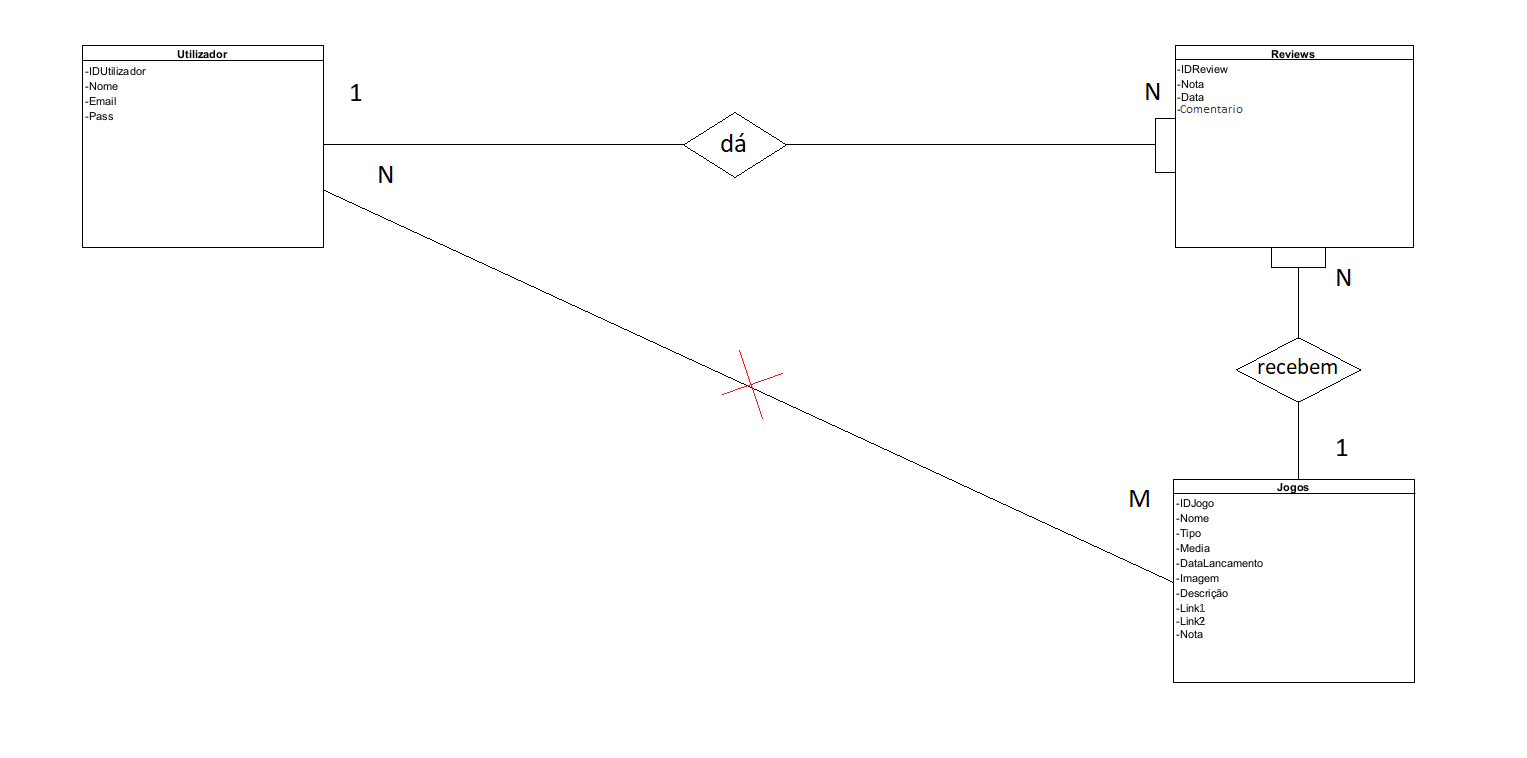
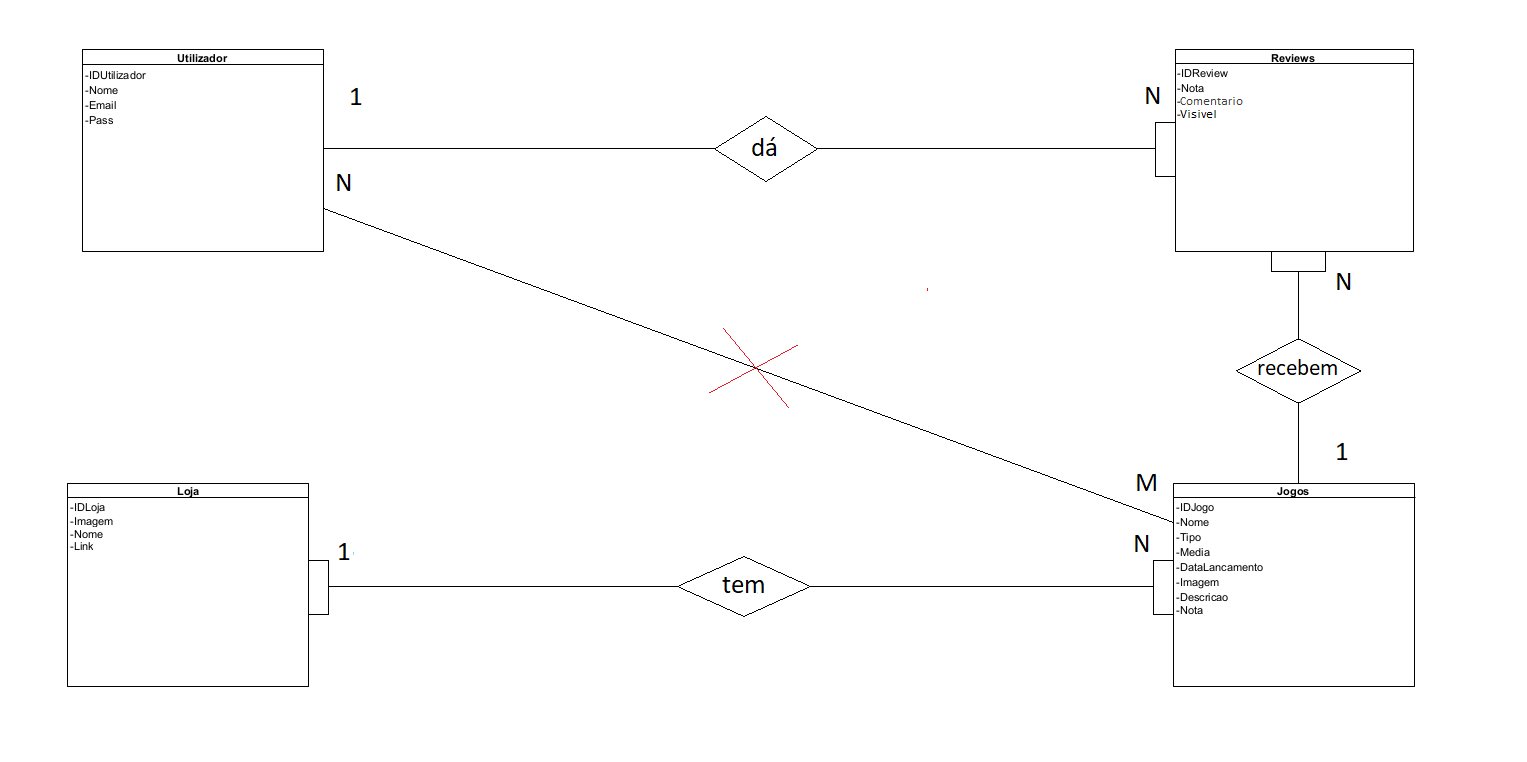
Alteração na base de dados e criação da classe loja

diff --git a/TrabPrático/Data/ApplicationDbContext.cs b/TrabPrático/Data/ApplicationDbContext.cs
@@ -16,22 +16,20 @@ namespace TrabPrático.Data
         {
             base.OnModelCreating(modelBuilder);
             modelBuilder.Entity<Jogos>().HasData(
-           new Jogos { IdJogo = 1, Nome = "FIFA 21", Tipo = "Desporto, Simulação", Nota = 74 , DataLancamento= new DateTime(2020, 10, 9) , Imagem = "FIFA21.jpg", Descricao = "FIFA 21 é um videojogo de simulação de futebol desenvolvido e publicado pela Electronic Arts, tendo como estrela da capa o jogador Kylian Mbappé." +
+           new Jogos { IdJogo = 1, Nome = "FIFA 21", Tipo = "Desporto, Simulação", CategoriaIdade = "3+", Nota = 74 , DataLancamento= new DateTime(2020, 10, 9) , Imagem = "FIFA21.jpg", Descricao = "FIFA 21 é um videojogo de simulação de futebol desenvolvido e publicado pela Electronic Arts, tendo como estrela da capa o jogador Kylian Mbappé." +
            "O jogo foi anunciado em 19 de junho de 2020, sendo, no mesmo ano, oficialmente publicado no dia 9 de outubro. Lançado de acordo com a temporada 2020-2021, o jogo apresenta como grandes novidades as novas mecânicas de simulação no modo carreira, junto com um editor de estádios no modo Ultimate Team." +
-           "FIFA 21 foi o primeiro título da série de videojogos FIFA, pertencente à EA Sports, a receber uma versão para as consolar da nova geração. Intitulado de Next Level Realism, o upgrade garantiu uma maior velocidade dos menus, menor tempo de loadings, novo relvado, novas faces, atualizações de estádios, atualização da neve, novos detalhes extracampo e melhorias nas texturas.", Link1 = "https://store.steampowered.com/app/1313860/EA_SPORTS_FIFA_21/", Link2 = "https://www.eneba.com/pt/origin-fifa-21-origin-key-global"
-           },
-           new Jogos { IdJogo = 2, Nome = "CyberPunk2077", Tipo = "Ação, Aventura, Mundo Aberto", Nota = 85 , DataLancamento = new DateTime(2020, 12, 10), Imagem = "cyberpunk2077.jpg", Descricao = "Cyberpunk 2077 é um jogo eletrónico de RPG de ação desenvolvido e publicado pela CD Projekt. " +
-           "Lançado a 10 de dezembro de 2020 para Google Stadia, Microsoft Windows, PlayStation 4 e Xbox One, e previsto para 2021 para PlayStation 5 e Xbox Series X / S, sendo que nesses já está disponível via retrocompatibilidade.A história do jogo é ambientada em Night City, um mundo aberto com seis regiões distintas situado no universo da franquia Cyberpunk.Ele é jogado a partir de uma perspectiva em primeira pessoa, com os jogadores a controlar um mercenário personalizável conhecido como V, que pode adquirir habilidades de hacking e maquinários, um arsenal de armas de longo alcance e opções de combate no estilo corpo a corpo.", Link1 = "https://store.steampowered.com/app/1091500/Cyberpunk_2077/", Link2 = "https://www.eneba.com/pt/gog-cyberpunk-2077-gog-com-key"
-           },
-           new Jogos { IdJogo = 3, Nome = "The Witcher 3: Wild Hunt", Tipo = "Ação, RPG", Nota = 93, DataLancamento = new DateTime(2015, 05, 19), Imagem = "TW3_Wild_Hunt.png", Descricao = "The Witcher 3: Wild Hunt é um jogo eletrónico de ação do subgénero RPG desenvolvido pela CD Projekt RED e lançado no dia 19 de maio de 2015 para as plataformas Microsoft Windows, PlayStation 4, Xbox One e em outubro de 2019 para a Nintendo Switch, sendo o terceiro título da série de jogos The Witcher." +
-           "Ele sucede The Witcher e The Witcher 2: Assassins of Kings(2011), que foram baseados na série de livros de fantasia Wiedźmin, do escritor polonês Andrzej Sapkowski.", Link1 = "https://store.steampowered.com/app/292030/The_Witcher_3_Wild_Hunt/", Link2 = "https://www.eneba.com/pt/gog-the-witcher-3-wild-hunt-gog-com-key-global" },
-           new Jogos { IdJogo = 4, Nome = "Assassin's Creed Origins", Tipo = "Ação, Aventura, RPG", Nota = 84, DataLancamento = new DateTime(2017, 10, 27), Imagem = "AssassinsCreedOrigins.jpg", Descricao = "Assassin's Creed Origins é um jogo eletrónico de ação-aventura, produzido pela Ubisoft Montreal e publicado pela Ubisoft. É o décimo título principal da série Assassin's Creed e teve o seu lançamento a 27 de Outubro de 2017, para Microsoft Windows, PlayStation 4 e Xbox One, o jogo recebeu uma porta para o Google Stadia a 15 de Dezembro de 2020.", Link1 = "https://store.steampowered.com/app/582160/Assassins_Creed_Origins/", Link2 = "https://www.eneba.com/pt/uplay-assassins-creed-origins-gold-edition-uplay-key-europe" },
-           new Jogos { IdJogo = 5, Nome = "Grand Thef Auto V", Tipo = "Ação, Aventura, Mundo Aberto", Nota = 96 , DataLancamento = new DateTime(2013, 09, 17), Imagem = "GTAV.jpg", Descricao = "Grand Theft Auto V é um jogo eletrónico de ação-aventura desenvolvido pela Rockstar North e publicado pela Rockstar Games. É o sétimo título principal da série Grand Theft Auto e foi lançado originalmente a 17 de setembro de 2013 para PlayStation 3 e Xbox 360, com remasterizações lançadas em 2014 para PlayStation 4 e Xbox One, em 2015 para Microsoft Windows e em 2021 para PlayStation 5 e Xbox Series X. O jogo passa-se no estado ficcional de San Andreas, com a história da campanha um jogador seguindo três criminosos e os seus esforços para realizarem assaltos sob a pressão de uma agência governamental. O mundo aberto permite que os jogadores naveguem livremente pelas áreas rurais e urbanas de San Andreas.", Link1 = "https://store.steampowered.com/app/271590/Grand_Theft_Auto_V/", Link2 = "https://www.eneba.com/pt/rockstar_social_club-grand-theft-auto-v-premium-online-edition-rockstar-social-club-key-global" },
-           new Jogos { IdJogo = 6, Nome = "Football Manager 2021", Tipo = "Desporto, Simulação", Nota = 85, DataLancamento = new DateTime(2020, 11, 24), Imagem = "FootballManager2021.jpg", Descricao = "Football Manager 2021 é um videojogo de simulação de gestão de futebol desenvolvido pela Sports Interactive e publicado pela Sega. Foi lançado mundialmente para iOS, Android, macOS e Windows em 24 de novembro de 2020.", Link1 = "https://store.steampowered.com/app/1263850/Football_Manager_2021/", Link2 = "https://www.eneba.com/pt/steam-football-manager-2021-steam-key-europe" },
-           new Jogos { IdJogo = 7, Nome = "Dark Souls III", Tipo = "Ação, RPG", Nota = 89, DataLancamento = new DateTime(2016, 04, 12), Imagem = "DarkSouls3.jpg", Descricao = "Dark Souls III é um jogo do género RPG de ação, o quarto da série Souls, desenvolvido pela FromSoftware e co-realizado por Hidetaka Miyazaki, o criador da série. Dark Souls III foi lançado para Microsoft Windows, PlayStation 4 e Xbox One no dia 24 de março de 2016 no Japão, e a 12 de abril de 2016 no resto do mundo.", Link1 = "https://store.steampowered.com/app/374320/DARK_SOULS_III/", Link2 = "https://www.eneba.com/pt/steam-dark-souls-3-steam-key-global" },
-           new Jogos { IdJogo = 8, Nome = "Need for Speed Heat", Tipo = "Corrida, Mundo Aberto", Nota = 72, DataLancamento = new DateTime(2019, 11, 08), Imagem = "NeedForSpeed.png", Descricao = "Need for Speed Heat é um jogo eletrónico de corrida desenvolvido pela Ghost Games e publicado pela Electronic Arts para Microsoft Windows, PlayStation 4 e Xbox One. Este é o vigésimo quarto jogo de série Need for Speed e comemora o aniversário de 25 anos da série.", Link1 = "https://store.steampowered.com/app/1222680/Need_for_Speed_Heat/", Link2 = "https://www.eneba.com/pt/origin-need-for-speed-heat-origin-key-global" },
-           new Jogos { IdJogo = 9, Nome = "Ori and the Will of the Wisps", Tipo = "Plataforma", Nota = 88, DataLancamento = new DateTime(2020, 03, 11), Imagem = "OriAndTheWillOfTheWisps.jpg", Descricao = "Ori and the Will of the Wisps é um jogo eletrónico metroidvania de aventura e plataforma desenvolvido pela Moon Studios e publicado pela Xbox Game Studios Europe para Xbox One, Nintendo Switch e Windows 10. É a sequência de Ori and the Blind Forest e foi lançado a 11 de março de 2020.", Link1 = "https://store.steampowered.com/app/1057090/Ori_and_the_Will_of_the_Wisps/", Link2 = "https://www.eneba.com/pt/steam-ori-and-the-blind-forest-definitive-edition-steam-key-global" },
-           new Jogos { IdJogo = 10, Nome = "FarCry 5", Tipo = "Ação, Aventura, First Person Shooter", Nota = 78, DataLancamento = new DateTime(2018, 03, 27), Imagem = "FarCry3.jpg", Descricao = "Far Cry 5 é um jogo eletrónico de tiro em primeira pessoa de ação-aventura ambientado num mundo aberto.  Foi desenvolvido pela Ubisoft Montreal e publicado pela Ubisoft para Microsoft Windows, PlayStation 4 e Xbox One a 27 de março de 2018 e foi lançado a 3 de Novembro para o Google Stadia, junto com o Far Cry: New Dawn. É o décimo titulo da serie Far Cry e o quinto jogo principal.", Link1 = "https://store.steampowered.com/app/552520/Far_Cry_5/", Link2 = "https://www.eneba.com/pt/uplay-far-cry-5-uplay-key-emea" }
+           "FIFA 21 foi o primeiro título da série de videojogos FIFA, pertencente à EA Sports, a receber uma versão para as consolar da nova geração. Intitulado de Next Level Realism, o upgrade garantiu uma maior velocidade dos menus, menor tempo de loadings, novo relvado, novas faces, atualizações de estádios, atualização da neve, novos detalhes extracampo e melhorias nas texturas."},
+           new Jogos { IdJogo = 2, Nome = "CyberPunk2077", Tipo = "Ação, Aventura, Mundo Aberto", CategoriaIdade = "17+", Nota = 85 , DataLancamento = new DateTime(2020, 12, 10), Imagem = "cyberpunk2077.jpg", Descricao = "Cyberpunk 2077 é um jogo eletrónico de RPG de ação desenvolvido e publicado pela CD Projekt. " +
+           "Lançado a 10 de dezembro de 2020 para Google Stadia, Microsoft Windows, PlayStation 4 e Xbox One, e previsto para 2021 para PlayStation 5 e Xbox Series X / S, sendo que nesses já está disponível via retrocompatibilidade.A história do jogo é ambientada em Night City, um mundo aberto com seis regiões distintas situado no universo da franquia Cyberpunk.Ele é jogado a partir de uma perspectiva em primeira pessoa, com os jogadores a controlar um mercenário personalizável conhecido como V, que pode adquirir habilidades de hacking e maquinários, um arsenal de armas de longo alcance e opções de combate no estilo corpo a corpo."},
+           new Jogos { IdJogo = 3, Nome = "The Witcher 3: Wild Hunt", Tipo = "Ação, RPG", CategoriaIdade = "17+", Nota = 93, DataLancamento = new DateTime(2015, 05, 19), Imagem = "TW3_Wild_Hunt.png", Descricao = "The Witcher 3: Wild Hunt é um jogo eletrónico de ação do subgénero RPG desenvolvido pela CD Projekt RED e lançado no dia 19 de maio de 2015 para as plataformas Microsoft Windows, PlayStation 4, Xbox One e em outubro de 2019 para a Nintendo Switch, sendo o terceiro título da série de jogos The Witcher." +
+           "Ele sucede The Witcher e The Witcher 2: Assassins of Kings(2011), que foram baseados na série de livros de fantasia Wiedźmin, do escritor polonês Andrzej Sapkowski."},
+           new Jogos { IdJogo = 4, Nome = "Assassin's Creed Origins", Tipo = "Ação, Aventura, RPG", CategoriaIdade = "17+", Nota = 84, DataLancamento = new DateTime(2017, 10, 27), Imagem = "AssassinsCreedOrigins.jpg", Descricao = "Assassin's Creed Origins é um jogo eletrónico de ação-aventura, produzido pela Ubisoft Montreal e publicado pela Ubisoft. É o décimo título principal da série Assassin's Creed e teve o seu lançamento a 27 de Outubro de 2017, para Microsoft Windows, PlayStation 4 e Xbox One, o jogo recebeu uma porta para o Google Stadia a 15 de Dezembro de 2020."},
+           new Jogos { IdJogo = 5, Nome = "Grand Thef Auto V", Tipo = "Ação, Aventura, Mundo Aberto", CategoriaIdade = "17+", Nota = 96 , DataLancamento = new DateTime(2013, 09, 17), Imagem = "GTAV.jpg", Descricao = "Grand Theft Auto V é um jogo eletrónico de ação-aventura desenvolvido pela Rockstar North e publicado pela Rockstar Games. É o sétimo título principal da série Grand Theft Auto e foi lançado originalmente a 17 de setembro de 2013 para PlayStation 3 e Xbox 360, com remasterizações lançadas em 2014 para PlayStation 4 e Xbox One, em 2015 para Microsoft Windows e em 2021 para PlayStation 5 e Xbox Series X. O jogo passa-se no estado ficcional de San Andreas, com a história da campanha um jogador seguindo três criminosos e os seus esforços para realizarem assaltos sob a pressão de uma agência governamental. O mundo aberto permite que os jogadores naveguem livremente pelas áreas rurais e urbanas de San Andreas."},
+           new Jogos { IdJogo = 6, Nome = "Football Manager 2021", Tipo = "Desporto, Simulação", CategoriaIdade = "3+", Nota = 85, DataLancamento = new DateTime(2020, 11, 24), Imagem = "FootballManager2021.jpg", Descricao = "Football Manager 2021 é um videojogo de simulação de gestão de futebol desenvolvido pela Sports Interactive e publicado pela Sega. Foi lançado mundialmente para iOS, Android, macOS e Windows em 24 de novembro de 2020."},
+           new Jogos { IdJogo = 7, Nome = "Dark Souls III", Tipo = "Ação, RPG", CategoriaIdade = "17+", Nota = 89, DataLancamento = new DateTime(2016, 04, 12), Imagem = "DarkSouls3.jpg", Descricao = "Dark Souls III é um jogo do género RPG de ação, o quarto da série Souls, desenvolvido pela FromSoftware e co-realizado por Hidetaka Miyazaki, o criador da série. Dark Souls III foi lançado para Microsoft Windows, PlayStation 4 e Xbox One no dia 24 de março de 2016 no Japão, e a 12 de abril de 2016 no resto do mundo."},
+           new Jogos { IdJogo = 8, Nome = "Need for Speed Heat", Tipo = "Corrida, Mundo Aberto", CategoriaIdade = "3+", Nota = 72, DataLancamento = new DateTime(2019, 11, 08), Imagem = "NeedForSpeed.png", Descricao = "Need for Speed Heat é um jogo eletrónico de corrida desenvolvido pela Ghost Games e publicado pela Electronic Arts para Microsoft Windows, PlayStation 4 e Xbox One. Este é o vigésimo quarto jogo de série Need for Speed e comemora o aniversário de 25 anos da série."},
+           new Jogos { IdJogo = 9, Nome = "Ori and the Will of the Wisps", Tipo = "Plataforma", CategoriaIdade = "3+", Nota = 88, DataLancamento = new DateTime(2020, 03, 11), Imagem = "OriAndTheWillOfTheWisps.jpg", Descricao = "Ori and the Will of the Wisps é um jogo eletrónico metroidvania de aventura e plataforma desenvolvido pela Moon Studios e publicado pela Xbox Game Studios Europe para Xbox One, Nintendo Switch e Windows 10. É a sequência de Ori and the Blind Forest e foi lançado a 11 de março de 2020."},
+           new Jogos { IdJogo = 10, Nome = "FarCry 5", Tipo = "Ação, Aventura, First Person Shooter", CategoriaIdade = "17+", Nota = 78, DataLancamento = new DateTime(2018, 03, 27), Imagem = "FarCry3.jpg", Descricao = "Far Cry 5 é um jogo eletrónico de tiro em primeira pessoa de ação-aventura ambientado num mundo aberto.  Foi desenvolvido pela Ubisoft Montreal e publicado pela Ubisoft para Microsoft Windows, PlayStation 4 e Xbox One a 27 de março de 2018 e foi lançado a 3 de Novembro para o Google Stadia, junto com o Far Cry: New Dawn. É o décimo titulo da serie Far Cry e o quinto jogo principal."}
         );
         }
     }

diff --git a/TrabPrático/Models/Loja.cs b/TrabPrático/Models/Loja.cs
@@ -1,0 +1,40 @@
+using System;
+using System.Collections.Generic;
+using System.ComponentModel.DataAnnotations.Schema;
+using System.Linq;
+using System.Threading.Tasks;
+
+namespace TrabPrático.Models
+{
+    public class Loja
+    {
+        /// <summary>
+        /// Identificador da loja
+        /// </summary>
+        public int IdLoja { get; set; }
+
+        /// <summary>
+        /// Nome da loja
+        /// </summary>
+        public string Nome { get; set; }
+
+        /// <summary>
+        /// Imagem da loja
+        /// </summary>
+        public string ImagemLoja { get; set; }
+
+        /// <summary>
+        /// Links do jogo na loja
+        /// </summary>
+        public string Link { get; set; }
+
+        //***********************************
+
+        /// <summary>
+        /// FK para os Jogos
+        /// </summary>
+        [ForeignKey(nameof(Jogo))]
+        public int JogoFK { get; set; }
+        public Jogos Jogo { get; set; }
+    }
+}

diff --git a/TrabPrático/Models/Utilizador.cs b/TrabPrático/Models/Utilizador.cs
@@ -9,7 +9,7 @@ namespace TrabPrático.Models
     public class Utilizador
     {
         public Utilizador(){
-             // inicializar a lista de Cães do Criador
+             // inicializar a lista de review que o utilizador dá
             UserReview = new HashSet<Review>();    
         }
 
@@ -39,6 +39,11 @@ namespace TrabPrático.Models
         [Required(ErrorMessage = "A password é de preenchimento obrigatório")]
         [StringLength(12, ErrorMessage = "O {0} não pode ter mais de {1} caracteres.")]
         public string Pass { get; set; }
+
+        /// <summary>
+        /// Data de nascimento do utilizador
+        /// </summary>
+        public DateTime DataNascimento { get; set; }
 
         //***********************
 

diff --git a/TrabPrático/Models/Jogos.cs b/TrabPrático/Models/Jogos.cs
@@ -13,7 +13,7 @@ namespace TrabPrático.Models
     {
         public Jogos()
         {
-            // inicializar a lista de Cães do Criador
+            // inicializar a lista de Reviews do Jogo
             JogosReview = new HashSet<Review>();
         }
 
@@ -32,6 +32,11 @@ namespace TrabPrático.Models
         /// Categoria do jogo
         /// </summary>
         public string Tipo { get; set; }
+
+        /// <summary>
+        /// Categoria de idade do jogo Ex: Dark Souls III é +18
+        /// </summary>
+        public string CategoriaIdade { get; set; }
 
         /// <summary>
         /// Nota dada ao jogo
